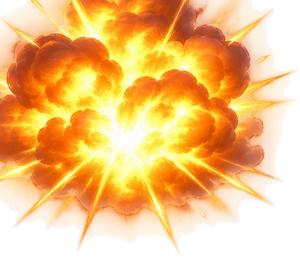
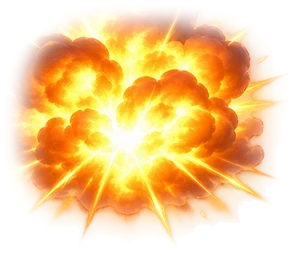
Morning batch: power stats popup, instant market mail for seller and buyer, rounded meteor explosions, chapter-1-only quest migrations, gold-only offline rewards, premium pass for 1200 gems
Claude-Session: https://claude.ai/code/session_01BJxCm1dmmwxxaYfrZHuYsX

diff --git a/public/game.html b/public/game.html
@@ -450,7 +450,7 @@ html,body{height:100%;background:#1c1830;overflow:hidden;font-family:'Jua',syste
   </div>
 </div>
 <script>window.saveReady=!!sessionStorage.xp_enter && sessionStorage.xp_enter===localStorage.xp_token;sessionStorage.removeItem("xp_enter");if(!window.saveReady)location.replace("index.html")</script>
-<script src="net.js?v=27"></script>
+<script src="net.js?v=28"></script>
 <script src="chief-patterns.js?v=3"></script>
 <script src="boss-patterns.js?v=5"></script>
 <script src="weapon-skill-fx.js?v=4"></script>
@@ -511,7 +511,7 @@ async function idbAll(){const db=await idb();return new Promise(res=>{const out=
 async function idbPut(k,v){const db=await idb();return new Promise(res=>{const tx=db.transaction('a','readwrite');tx.objectStore('a').put(v,k);tx.oncomplete=()=>res();tx.onerror=()=>res()})}
 async function idbDel(k){const db=await idb();return new Promise(res=>{const tx=db.transaction('a','readwrite');tx.objectStore('a').delete(k);tx.oncomplete=()=>res();tx.onerror=()=>res()})}
 const BAKED={};
-async function loadAssets(){try{const r=await fetch('assets/manifest.json',{cache:'no-cache'});if(r.ok){const j=await r.json();for(const f of(j.files||[])){const n=f.replace(/\.(png|webp|jpe?g|gif)$/i,'');BAKED[n]='assets/'+f;setAsset(n,'assets/'+f+(n==='bld_fire'?'?v=2041':/^wpn_.*_5$/.test(n)?'?v=2057':/^hero_/.test(n)?'?v=2040':/^(tile|obs)/.test(n)?'?v=2037':''))}}}catch(e){}
+async function loadAssets(){try{const r=await fetch('assets/manifest.json',{cache:'no-cache'});if(r.ok){const j=await r.json();for(const f of(j.files||[])){const n=f.replace(/\.(png|webp|jpe?g|gif)$/i,'');BAKED[n]='assets/'+f;setAsset(n,'assets/'+f+(n==='bld_fire'?'?v=2041':/^wpn_.*_5$/.test(n)?'?v=2057':/^hero_/.test(n)?'?v=2040':/^(tile|obs)/.test(n)?'?v=2037':/^fx_(boom|meteor)$/.test(n)?'?v=2101':''))}}}catch(e){}
  try{for(const[k,v]of await idbAll()){LOCAL[k]=1;setAsset(k,URL.createObjectURL(v))}}catch(e){}}
 const SHAPE={sprout:'머리에 새싹 잎이 난 동글동글한 몸',slime:'말랑한 젤리 슬라임',mush:'버섯 갓을 쓴 작은 몸',spider:'다리 8개 달린 벌레형',golem:'큼직한 돌덩이 골렘',tall:'키 큰 인간형(로브·갑옷)',bat:'날개를 편 박쥐형',chest:'보물상자(때리면 부서짐)',cactus:'선인장'};
 const HERO_LOOK={archer:'초록 후드와 가죽 조끼의 견습 궁수',farmer:'밀짚모자와 멜빵바지의 농부',mage:'파란 뾰족 모자와 로브의 수습 마법사',miner:'노란 안전모와 헤드랜턴, 갈색 작업복의 광부',monk:'주황 승복과 민머리의 수도승',pirate:'삼각 해적모자와 빨간 두건, 안대의 해적',viking:'뿔 달린 투구와 털망토, 갈색 수염의 바이킹',samurai:'빨간 일본 갑옷과 투구의 사무라이',icewitch:'하늘색 마녀 모자와 얼음 결정 장식 로브의 마녀',dragon:'붉은 용비늘 갑옷과 용머리 투구의 용기사',adv:'얼굴 없는 노란 마네킹 같은 기본 캐릭터, 몸 전체가 노란색',knight:'은색 갑옷, 가슴에 파란 천, 빨간 깃털 달린 투구',rogue:'짙은 보라색 후드와 옷, 어두운 얼굴에 빛나는 노란 눈 두 개'};
@@ -1112,7 +1112,8 @@ function load(){try{const d=JSON.parse(localStorage.getItem(KEY));if(d&&typeof d
 function save(){S.seen=Date.now();S.ep=+localStorage.getItem('xp_ep')||0;if(typeof ST!=='undefined'&&ST.pow)S.pow=ST.pow;if(S.chs){const c=S.chs[CHAP]||(S.chs[CHAP]={});for(const k of CHKS)c[k]=S[k]}S.ch=window.CH_GO||CHAP;try{localStorage.setItem(KEY,JSON.stringify(S))}catch(e){}if(window.NET)NET.markSave()}
 const CHKS=['bk','stageClears','stageClaimed','q','qp','qok'];load();{S.chs=S.chs||{};if(!S.chs[1]){S.chs[1]={};for(const k of CHKS)S.chs[1][k]=S[k]}if(!S.chs[CHAP])S.chs[CHAP]={bk:[0,0,0,0,0,0],stageClears:{},stageClaimed:{},q:0,qp:0,qok:0};const c=S.chs[CHAP];for(const k of CHKS)if(c[k]!==undefined)S[k]=c[k];if(CHAP===2&&!ch2Open()){S.ch=1}}
 if(!window.IS_ADMIN)S.admin=false;
-{const now=Date.now(),sec=S.seen?Math.min(8*3600,Math.max(0,(now-S.seen)/1000)):0;if(sec>=300)S.offPend=Math.max(S.offPend||0,sec);S.seen=now}S.wq=S.wq||{};for(const k in S.weapons){const a=S.wq[k]=S.wq[k]||[];while(a.length<S.weapons[k])a.push(Math.round(rnd(.8,1.2)*100)/100);if(a.length>S.weapons[k])a.length=S.weapons[k]}if(!(S.qv>=3)){const ST0=[0, 25, 41, 58, 76, 94];let z=0;for(let i=0;i<6;i++)if(S.bk&&S.bk[i])z=i+1;S.q=ST0[Math.min(z,5)];if(z>=6)S.q=112;S.qp=0;S.qok=0;S.qv=3}if(S.qv===3){const INS=[24,40,57,75,93,111];let d=0;for(const p of INS)if(S.q>=p)d++;S.q+=d;S.qv=4}
+{const now=Date.now(),sec=S.seen?Math.min(8*3600,Math.max(0,(now-S.seen)/1000)):0;if(sec>=300)S.offPend=Math.max(S.offPend||0,sec);S.seen=now}S.wq=S.wq||{};for(const k in S.weapons){const a=S.wq[k]=S.wq[k]||[];while(a.length<S.weapons[k])a.push(Math.round(rnd(.8,1.2)*100)/100);if(a.length>S.weapons[k])a.length=S.weapons[k]}if(!(S.qv>=3)&&CHAP!==1)S.qv=4; // 퀘스트 번호 보정은 1챕 예전 저장에만 1번
+if(!(S.qv>=3)){const ST0=[0, 25, 41, 58, 76, 94];let z=0;for(let i=0;i<6;i++)if(S.bk&&S.bk[i])z=i+1;S.q=ST0[Math.min(z,5)];if(z>=6)S.q=112;S.qp=0;S.qok=0;S.qv=3}if(S.qv===3){const INS=[24,40,57,75,93,111];let d=0;for(const p of INS)if(S.q>=p)d++;S.q+=d;S.qv=4}
 const ST={};
 function wq(k){const a=S.wq&&S.wq[k];return a&&a.length?Math.max(...a):1}
 function addW(k){const collection=collectionState();collection.weapons[k]=(collection.weapons[k]||0)+1;S.weapons[k]=(S.weapons[k]||0)+1;S.wq=S.wq||{};(S.wq[k]=S.wq[k]||[]).push(Math.round(rnd(.8,1.2)*100)/100)}
@@ -2061,7 +2062,7 @@ BOX.mount={n:'탈것 상자',sub:'<b style="color:#ffd23c">전설</b> 탈것 획
 ['일반','희귀','레어','에픽','전설'].forEach((n,g)=>BOX['egg'+g]={n:n+' 펫 알',img:'pet_egg'+g,egg:g});
 function today(){return new Date().toDateString()}
 const SUPT=4*3600e3,ATT=[{gold:1000},{gem:90},{cry:90},{orb:9},{gem:180},{scr:30},{wpn:4}];
-function offRw(sec){const z=topZone(),fg=ZS[z].m.reduce((a,k)=>a+MT[k].gold,0)/ZS[z].m.length,h=sec/3600;return{gold:Math.round(fg*60*h),shard:Math.floor(h)}}
+function offRw(sec){const z=topZone(),fg=ZS[z].m.reduce((a,k)=>a+MT[k].gold,0)/ZS[z].m.length,h=sec/3600;return{gold:Math.round(fg*60*h),shard:0}}
 function showOffline(){if(!S.offPend||document.getElementById('offp'))return;const sec=S.offPend,r=offRw(sec),hh=Math.floor(sec/3600),mm=Math.floor(sec%3600/60);const d=document.createElement('div');d.id='offp';d.style.cssText='position:fixed;inset:0;z-index:9500;background:rgba(15,12,29,.72);display:flex;align-items:center;justify-content:center;font-family:Jua,sans-serif';
  d.innerHTML=`<div style="background:#2b2546;border:4px solid #1c1830;border-radius:22px;padding:22px 20px;width:min(86vw,320px);text-align:center;color:#fff"><div style="font-size:24px;color:#ffe066">오프라인 보상</div><div style="color:#cfc8ee;margin:6px 0 14px">${hh}시간 ${mm}분 동안 모았어요 (최대 8시간)</div><div style="font-size:20px;line-height:1.7">금화 <b style="color:#ffd23c">${fmt(r.gold)}</b>${r.shard?`<br>영웅 파편 <b style="color:#c79bff">${r.shard}개</b>`:''}</div><button id="offok" style="margin-top:16px;font:inherit;font-size:20px;padding:10px 34px;border:3px solid #1c1830;border-radius:14px;background:linear-gradient(#7be36a,#3fae3a);color:#fff">받기</button></div>`;
  document.body.appendChild(d);d.querySelector('#offok').onclick=()=>{const r2=offRw(S.offPend||0);S.gold+=r2.gold;const got={};for(let i=0;i<r2.shard;i++){const pool=HERO.filter(h=>h.k!=='adv'),h=pool[Math.floor(Math.random()*pool.length)];S.shards[h.k]=(S.shards[h.k]||0)+1;got[h.n]=(got[h.n]||0)+1}S.offPend=0;save();d.remove();toast('금화 '+fmt(r2.gold)+(r2.shard?' · 파편 '+Object.entries(got).map(([n,c])=>n+' '+c).join(', '):''))}}
@@ -2255,7 +2256,7 @@ function marketPanel(){
 function mkSell(){const k=MK.sel;if(MK.busy||!k||!(S.weapons[k]-eqCount(k)>0))return;const price=Math.floor(Number(($('mkprice')||{}).value||0));if(!(price>=1)){toast('가격을 입력해 주세요');return}
  const q=Math.min(...S.wq[k]);MK.busy=true;mkApi('sell',{key:k,q,price,cur:MK.cur}).then(j=>{MK.busy=false;if(!j.ok){toast(j.err||'등록 실패');return}remW(k,1);fixSlots();autoFill();calc();save();MK.list.unshift(j.l);MK.sel=null;toast(wName(k)+' 등록 완료');draw()}).catch(()=>{MK.busy=false;toast('서버에 연결할 수 없어요')})}
 function mkBuy(id){const l=MK.list.find(x=>x.id===id);if(MK.busy||!l)return;if(S[l.cur]<l.price){toast((l.cur==='gem'?'보석':'금화')+'이 부족해요');return}
- MK.busy=true;mkApi('buy',{id}).then(j=>{MK.busy=false;MK.list=MK.list.filter(x=>x.id!==id);if(!j.ok){toast(j.err||'구매 실패');draw();return}S[j.cur]=Math.max(0,S[j.cur]-j.price);addWq(j.key,j.q);autoFill();calc();save();toast(wName(j.key)+' 구매 완료!');draw()}).catch(()=>{MK.busy=false;toast('서버에 연결할 수 없어요')})}
+ MK.busy=true;mkApi('buy',{id}).then(j=>{MK.busy=false;MK.list=MK.list.filter(x=>x.id!==id);if(!j.ok){toast(j.err||'구매 실패');draw();return}S[j.cur]=Math.max(0,S[j.cur]-j.price);if(!j.mailed){addWq(j.key,j.q);autoFill();calc()}save();toast(wName(j.key)+(j.mailed?' 구매 완료! 우편함에서 받아요':' 구매 완료!'));draw()}).catch(()=>{MK.busy=false;toast('서버에 연결할 수 없어요')})}
 function mkCancel(id){if(MK.busy)return;MK.busy=true;mkApi('cancel',{id}).then(j=>{MK.busy=false;if(!j.ok){toast(j.err||'실패');return}addWq(j.key,j.q);MK.list=MK.list.filter(x=>x.id!==id);autoFill();calc();save();toast('등록을 내렸어요');draw()}).catch(()=>{MK.busy=false})}
 function cur(list){$('mcur').innerHTML=list.map(k=>`<div class="pill" data-reward-kind="${k}">${IC[k]}<span>${fmt(S[k])}</span></div>`).join('')}
 function upTabs(on){return '<div class="tabs">'+[['base','기본 능력'],['sp','특수 능력']].concat(ch2Open()?[['aw','각성']]:[]).map(([k,n])=>'<div class="tab'+(k===on?' on':'')+'" '+(k===on?'':'data-a="upt:'+k+'"')+'>'+n+'</div>').join('')+'</div>'}
@@ -2315,7 +2316,7 @@ function draw(){queueMicrotask(()=>refreshRewardNotices(true));const B=$('mbody'
   F.innerHTML=upTabs('base')}}
  else if(panel==='wpn'){$('mtitle').textContent='장비';cur(['scr','gold']);const n=slotCount();
   const pos=[[10,34],[null,34],[10,112],[null,112],[10,190],[null,190]];
-  let top=`<div class="eqtop"><canvas id="eqcv"></canvas><div class="eqpow ts">⚡ ${fmt(ST.pow)}</div>`;
+  let top=`<div class="eqtop"><canvas id="eqcv"></canvas><button type="button" class="eqpow ts" data-a="powinfo" style="cursor:pointer;font:inherit">⚡ ${fmt(ST.pow)} <span style="font-size:.7em;opacity:.8">ⓘ</span></button>`;
   S.slots.forEach((k,i)=>{const[l,t]=pos[i],side=l===null?'right:10px':'left:10px';
    if(i>=n){top+=`<div class="eqs lk" style="${side};top:${t}px" data-a="slk:${i}">🔒<br>Lv${SLOT_LV[i]}</div>`;return}
    const g=k?+k.split('_')[1]:0,canUp=k&&effLv(i)<capLv(i)&&afford(slotCost(S.slv[i]));
@@ -2512,12 +2513,13 @@ qlv();loadAssets();requestAnimationFrame(frame);
 <script src="raid.js?v=13"></script>
 <script src="pet.js?v=11"></script>
 <script src="mount.js?v=27"></script>
-<script src="unlock.js?v=3"></script>
+<script src="unlock.js?v=4"></script>
 <script src="shop2.js?v=5"></script>
 <script src="events.js?v=1"></script>
 <script src="talent.js?v=4"></script>
-<script src="pass.js?v=8"></script>
-<script src="mailbox.js?v=3"></script>
+<script src="pass.js?v=9"></script>
+<script src="statinfo.js?v=1"></script>
+<script src="mailbox.js?v=4"></script>
 <script src="sfx.js?v=6"></script>
 </body>
 </html>

diff --git a/public/pass.js b/public/pass.js
@@ -1,6 +1,6 @@
 /* 성장 패스 (시즌 1): 5레벨마다 일반 보상 + 프리미엄 보상. 프리미엄은 운영자가 켜 줌(₩1,200) */
 (() => {
-  const SEASON = 's1', START = Date.parse('2026-11-19T19:00:00+09:00'), END = START + 30 * 864e5, PRICE = '₩1,200';
+  const SEASON = 's1', START = Date.parse('2026-11-19T19:00:00+09:00'), END = START + 30 * 864e5, PRICE = 1200;
   const TIERS = [];
   for (let t = 1; t <= 20; t++) {
     const lv = t * 5, G = Math.round(800 * t * t / 100) * 100;
@@ -58,6 +58,7 @@
 .pass-prem{display:flex;align-items:center;justify-content:center;gap:6px;flex-wrap:wrap;font-size:13px}
 .pass-prem button,.pass-all{font:inherit;color:#fff;border:0;background-color:transparent;background-position:center;background-size:100% 100%;background-repeat:no-repeat;text-shadow:0 2px 3px #160924}
 .pass-prem button{background-image:url(assets/pass_premium.webp);padding:9px 18px;min-height:36px}
+.pass-prem button{display:inline-flex;align-items:center;gap:4px}.pass-prem button img,.pass-prem button svg,.pass-prem button .aimg{width:20px;height:20px}
 .pass-all{display:block;margin:0 auto 10px;width:min(210px,84%);min-height:48px;background-image:url(assets/pass_claim.webp);font-size:17px}
 .pass-all:disabled{filter:saturate(.45) brightness(.78)}
 .pass-hd,.pass-row{display:grid;grid-template-columns:minmax(0,1fr) 44px minmax(0,1fr);gap:6px;align-items:center;text-align:center}
@@ -88,7 +89,7 @@
   function panelHTML() {
     const ready = anyReady();
     let h = `<section class="pass-board" aria-label="성장 패스"><header class="pass-top"><img class="pass-emblem" src="assets/pass_emblem.webp" alt=""><h3 class="ts">성장 패스 · 시즌 1</h3><div class="tm">${left()}</div>
-      <div class="pass-prem">${PREM ? '<b style="color:#7be36a">✔ 프리미엄 패스 활성화</b>' : `<span>프리미엄 보상까지 모두 받기</span><button class="ts" data-a="passbuy">${PRICE}</button>`}</div></header>
+      <div class="pass-prem">${PREM ? '<b style="color:#7be36a">✔ 프리미엄 패스 활성화</b>' : `<span>프리미엄 보상까지 모두 받기</span><button class="ts" data-a="passbuy">${IC.gem}${fmt(PRICE)}</button>`}</div></header>
       <button class="pass-all ts" data-a="passall" ${ready ? '' : 'disabled'}>모두 받기</button>
       <div class="pass-hd"><span>일반 보상</span><span>Lv</span><span>프리미엄 ${PREM ? '' : '🔒'}</span></div>`;
     for (const t of TIERS) {
@@ -114,13 +115,14 @@
     if (k === 'passc') {
       const t = TIERS.find(x => x.lv === +v); if (!t) return;
       const prem = w === 'p';
-      if (prem && !PREM) { toast('프리미엄 패스(' + PRICE + ')가 필요해요'); return }
+      if (prem && !PREM) { toast('프리미엄 패스(보석 ' + fmt(PRICE) + ')가 필요해요'); return }
       if (!live()) { toast(Date.now() < START ? '시즌은 19시에 시작해요' : '시즌이 끝났어요'); return }
       if (S.lv < t.lv) { toast('Lv.' + t.lv + '에 받을 수 있어요'); return }
       const m = claim(t, prem); if (m) { toast(m); save(); window.SFX && SFX.play('reward', { v: .6 }) } draw(); return;
     }
     if (k === 'passall') { const got = []; for (const t of TIERS) for (const pr of [false, true]) { const m = claim(t, pr); if (m) got.push(m) } if (got.length) { toast('패스 보상 ' + got.length + '개 받음!'); save(); window.SFX && SFX.play('reward', { v: .7 }) } draw(); return }
-    if (k === 'passbuy') { toast('링구에게 기부좀요'); num(P.x, P.y - 120, '링구에게 기부좀요', '#ffe066', true); return }
+    if (k === 'passbuy') { if (PREM) return; if (S.gem < PRICE) { toast('보석이 부족해요 (' + fmt(PRICE) + ' 필요)'); return } if (window.__passBuying) return; window.__passBuying = 1;
+      fetchPrem({ a: 'buy' }).then(() => { window.__passBuying = 0; if (PREM) { S.gem -= PRICE; save(); window.NET && NET.markSave && NET.markSave(); toast('프리미엄 패스 활성화!'); window.SFX && SFX.play('reward', { v: .8 }); draw() } else toast('잠시 후 다시 시도해 주세요') }); return }
     if (k === 'passgrant') { const n = (document.getElementById('passNick') || {}).value || ''; if (!n.trim()) { toast('닉네임을 적어 주세요'); return } fetchPrem({ a: 'grant', nick: n, on: v === '1' }).then(() => toast('처리했어요')); return }
     return _act.apply(this, arguments);
   };

diff --git a/server.js b/server.js
@@ -45,10 +45,12 @@ const MK_LIMIT = { gold: 1e15, gem: 1e6 }, MK_FEE = .1, MK_MAX = 10;
 // 운영 우편: 정식 오픈(19:00) 이후 모든 계정(새로 가입한 계정 포함)이 우편함에서 1번 받음
 const SYS_MAIL = [{ id: 'launch-1', t: '🎉 정식 오픈 보상', gem: 500, keys: { b2: 3, pet: 2 } }];
 function sysMail(u) { if (Date.now() < LAUNCH_AT) return []; const g = u.gifts || {}; return SYS_MAIL.filter(m => !g[m.id]).map(m => ({ ...m })); }
+// 우편이 생기면 접속 중인 그 유저 폰에 바로 알려서 새로고침 없이 우편함 갱신
+function mailPing(id) { const c = clients.get(id); if (c) wsSend(c.sock, { t: 'mail' }); }
 function market(u, b, res) {
   const mail = mk.mail[u.id] || [];
   if (b.a === 'list') return send(res, 200, { list: mk.list.slice(-300).reverse(), mail: mail.length, me: u.id });
-  if (b.a === 'inbox') return send(res, 200, { mail: sysMail(u).concat(mail.map(({ gold, gem }) => ({ gold, gem })).reverse()) });
+  if (b.a === 'inbox') return send(res, 200, { mail: sysMail(u).concat(mail.map(({ gold, gem, w, t }) => ({ gold, gem, w, t })).reverse()) });
   if (b.a === 'sell') {
     const key = String(b.key || ''), q = Math.round(Number(b.q) * 100) / 100, price = Math.floor(Number(b.price)), cur = b.cur === 'gem' ? 'gem' : 'gold';
     if (!/^(dagger|sword|mace|spear|axe|bow|gun|staff)_[0-6]$/.test(key) || !(q >= .8 && q <= 1.2)) return send(res, 400, { err: '잘못된 무기예요' });
@@ -64,8 +66,10 @@ function market(u, b, res) {
     if (b.a === 'cancel') { if (l.seller !== u.id) return send(res, 403, { err: '내 물건만 내릴 수 있어요' }); mk.list.splice(i, 1); saveMk(); return send(res, 200, { ok: 1, key: l.key, q: l.q }); }
     if (l.seller === u.id) return send(res, 400, { err: '내 물건은 살 수 없어요' });
     mk.list.splice(i, 1);
-    (mk.mail[l.seller] = mk.mail[l.seller] || []).push({ [l.cur]: Math.floor(l.price * (1 - MK_FEE)), key: l.key, buyer: u.nick || '모험가' });
-    saveMk(); return send(res, 200, { ok: 1, key: l.key, q: l.q, price: l.price, cur: l.cur });
+    (mk.mail[l.seller] = mk.mail[l.seller] || []).push({ [l.cur]: Math.floor(l.price * (1 - MK_FEE)), key: l.key, buyer: u.nick || '모험가', t: '거래소 판매 대금' });
+    (mk.mail[u.id] = mk.mail[u.id] || []).push({ w: { key: l.key, q: l.q }, t: '거래소 구매 장비' }); // 산 장비는 구매자 우편함으로
+    saveMk(); mailPing(l.seller); mailPing(u.id);
+    return send(res, 200, { ok: 1, key: l.key, q: l.q, price: l.price, cur: l.cur, mailed: 1 });
   }
   if (b.a === 'claim') {
     const sm = sysMail(u); if (sm.length) { u.gifts = u.gifts || {}; for (const m of sm) u.gifts[m.id] = Date.now(); markDirty(); }
@@ -139,6 +143,7 @@ const server = http.createServer(async (req, res) => {
         if (!t) return send(res, 400, { err: '그 닉네임을 찾을 수 없어요' });
         t.passPrem = t.passPrem || {}; if (b.on) t.passPrem[S1] = Date.now(); else delete t.passPrem[S1]; markDirty();
       }
+      if (b.a === 'buy') { u.passPrem = u.passPrem || {}; if (!u.passPrem[S1]) { u.passPrem[S1] = Date.now(); markDirty(); } } // 보석 1,200은 게임에서 차감
       const out = { prem: !!(u.passPrem && u.passPrem[S1]) };
       if (u.id === 'ehgus') out.list = Object.values(db.users).filter(x => x.passPrem && x.passPrem[S1]).map(x => x.nick || x.id);
       return send(res, 200, out);

diff --git a/public/statinfo.js b/public/statinfo.js
@@ -1,0 +1,44 @@
+/* 장비 화면 ⚡ 전투력 버튼 → 내 능력치 상세 창 */
+(() => {
+  const css = document.createElement('style');
+  css.textContent = `#statpop{position:fixed;inset:0;z-index:9000;display:flex;align-items:center;justify-content:center;background:rgba(15,12,29,.55);font-family:Jua,sans-serif}
+#statpop .sp{width:min(84vw,330px);max-height:78vh;overflow:auto;background:#2b2546;border:4px solid #1c1830;border-radius:18px;padding:12px 14px 14px;color:#fff;box-shadow:0 8px 0 rgba(0,0,0,.35)}
+#statpop .sph{display:flex;align-items:center;justify-content:space-between;margin-bottom:8px}
+#statpop .sph b{font-size:20px;font-weight:normal;color:#ffe066}
+#statpop .spx{font:inherit;font-size:18px;width:32px;height:32px;border-radius:10px;border:2px solid #1c1830;background:#e8504a;color:#fff;padding:0}
+#statpop .spp{text-align:center;font-size:24px;margin:2px 0 10px;color:#ffd23c}
+#statpop .spr{display:flex;align-items:center;gap:8px;padding:6px 8px;border-radius:10px;background:#38324f;margin-bottom:5px;font-size:15px}
+#statpop .spr .i{flex:0 0 24px;height:24px}#statpop .spr .i>img,#statpop .spr .i>svg{width:100%;height:100%;object-fit:contain}
+#statpop .spr span{flex:1;color:#cfc8ee}#statpop .spr em{font-style:normal;color:#fff}
+#statpop .sps{font-size:13px;color:#9d93ff;margin:10px 2px 4px}`;
+  document.head.appendChild(css);
+  const pct = v => (Math.round(v * 1000) / 10) + '%';
+  function rows() {
+    const R = [
+      ['sword', '공격력', fmt(ST.atk)],
+      ['hp', '최대 체력', fmt(ST.maxhp)],
+      ['crit', '치명타 확률', pct(Math.min(1, ST.crit || 0))],
+      ['crit', '치명타 피해', pct(ST.critDamage || 1.5)],
+      ['flag', '스킬 피해', pct(ST.skill || 1)],
+      ['flag', '스킬 쿨타임 감소', pct(Math.max(0, 1 - (ST.skillCooldown == null ? 1 : ST.skillCooldown)))],
+      ['up', '공격 속도', pct(ST.aspd || 1)],
+      ['up', '이중 공격 확률', pct(Math.min(1, ST.dbl || 0))],
+      ['up', '삼중 공격 확률', pct(Math.min(1, ST.triple || 0))],
+      ['regen', '체력 회복', fmt(Math.round((ST.regen || 0) * 10) / 10) + '/초'],
+      ['hp', '생명력 흡수', pct(ST.ls || 0)],
+      ['spd', '이동 속도', Math.round(ST.spd || 0)],
+      ['bag', '가방 용량', fmt(ST.bag || 0)],
+    ];
+    return R.map(([ic, n, v]) => `<div class="spr"><span class="i">${IC[ic] || ''}</span><span>${n}</span><em>${v}</em></div>`).join('');
+  }
+  function show() {
+    let d = document.getElementById('statpop'); if (d) d.remove();
+    d = document.createElement('div'); d.id = 'statpop';
+    d.innerHTML = `<div class="sp"><div class="sph"><b>내 능력치</b><button class="spx" aria-label="닫기">✕</button></div>
+      <div class="spp">⚡ ${fmt(ST.pow)}</div>${rows()}<div class="sps">강화·장비·영웅·펫·탈것·특성이 모두 합쳐진 값이에요</div></div>`;
+    d.addEventListener('click', e => { if (e.target === d || e.target.closest('.spx')) d.remove() });
+    document.body.appendChild(d);
+  }
+  const _act = act;
+  act = function (a) { if (a === 'powinfo') { show(); return } return _act.apply(this, arguments) };
+})();

diff --git a/public/mailbox.js b/public/mailbox.js
@@ -23,7 +23,7 @@
   const openPanel = () => panel === 'mailbox';
   const refreshPanel = () => { if (openPanel()) draw(); };
   const KN = { b1: '초보자의 무기상자 열쇠', b2: '전문가의 무기상자 열쇠', b3: '전사의 무기상자 열쇠', pet: '펫 알 상자 교환권', mount: '탈것 상자 교환권' };
-  const amount = m => ['gold', 'gem'].filter(k => m[k] > 0).map(k => `${RWN[k]} ${number.format(m[k])}`).concat(Object.entries(m.keys || {}).map(([k, n]) => `${KN[k] || k} ${n}개`)).join(' · ');
+  const amount = m => ['gold', 'gem'].filter(k => m[k] > 0).map(k => `${RWN[k]} ${number.format(m[k])}`).concat(Object.entries(m.keys || {}).map(([k, n]) => `${KN[k] || k} ${n}개`)).concat(m.w ? [wName(m.w.key) + ' (' + Math.round(m.w.q * 100) + '%)'] : []).join(' · ');
 
   async function refresh() {
     if (loading || claiming) return;
@@ -51,9 +51,11 @@
       const rewards = {}, gotKeys = [];
       for (const m of result.mail) {
         for (const k of ['gold', 'gem']) if (m[k] > 0) rewards[k] = (rewards[k] || 0) + m[k];
+        if (m.w && /^[a-z]+_[0-6]$/.test(m.w.key)) { addWq(m.w.key, m.w.q); gotKeys.push(wName(m.w.key)); }
         for (const [k, n] of Object.entries(m.keys || {})) { if (!KN[k] || !(n > 0)) continue; S.keys = S.keys || {}; S.keys[k] = (S.keys[k] || 0) + n; gotKeys.push(KN[k] + ' ' + n + '개') }
       }
       mail = [];
+      if (result.mail.some(m => m.w)) { autoFill(); calc(); }
       if (Object.keys(rewards).length || gotKeys.length) { toast([Object.keys(rewards).length ? give(rewards) : ''].concat(gotKeys).filter(Boolean).join(', ')); save(); }
     } catch {
       toast('우편을 받지 못했어요. 다시 확인해 주세요.');
@@ -108,4 +110,5 @@
   setInterval(orderButton, 500);
   setTimeout(refresh, 4000);
   setInterval(refresh, 30000);
+  window.addEventListener('xp-mail', () => { refresh(); toast('📬 우편이 도착했어요') });
 })();

diff --git a/public/net.js b/public/net.js
@@ -23,7 +23,7 @@ function connect(){if(kicked)return;
    if(typeof S!=='undefined'){save();saveNow(m.key);}
    return;
   }
-  if(m.t==='kick')return kick(m.msg);if(m.t==='reset')return resetGo();
+  if(m.t==='kick')return kick(m.msg);if(m.t==='reset')return resetGo();if(m.t==='mail'){window.dispatchEvent(new Event('xp-mail'));return}
   if(['defenseState','defenseError','defenseInfo','defenseRooms'].includes(m.t)){window.DEFENSE?.receive(m);return}
   if(['raidState','raidError','raidInfo','raidRooms'].includes(m.t)){window.RAID?.receive(m);return}
   if(m.t==='hi'){ME=m.id;others.clear();for(const o of m.all)upd(o);

diff --git a/public/unlock.js b/public/unlock.js
@@ -52,7 +52,7 @@
         { t: '금화 150개로 부화기 짓기', type: 'build', key: 'incubator', cost: 150, rw: { gem: 10 } },
         { t: '부화기에 알 넣기', type: 'incput', need: 1, rw: { gold: 80 } },
         { t: '펫 부화하기', type: 'hatch', need: 1, rw: { gem: 15 } });
-      if (!S.qv2) { S.qv2 = 1; if (S.q > i) S.q += 3; save() }
+      if (!S.qv2) { S.qv2 = 1; if (CHAP === 1 && S.q > i) S.q += 3; save() }
     }
   }
   window.UNLOCK.built = () => { // 부화기 완성 시

diff --git a/HANDOFF.md b/HANDOFF.md
@@ -128,3 +128,4 @@ XP Hero(Supercent) 방식의 2D 웹 게임. 친구 8명 멀티플레이용.
 - 성장 패스(pass.js): 시즌1 2026-11-19 19:00 KST부터 30일. 5레벨마다(5~100, 20단계) 일반/프리미엄 보상, S.pass{s,f,p}. 프리미엄(₩1,200)은 결제 없음 → 관리자(ehgus)가 패스 창 아래 관리자 칸에서 닉네임으로 켜기/끄기 (/api/pass, u.passPrem, 초기화 때도 유지). 버튼은 탈것 버튼 아래 #passBtn, 이미지 키 hud_pass.
 - 정식 오픈 우편(server.js SYS_MAIL launch-1): 19:00 이후 모든 계정(신규 가입 포함) 우편함에 1번 — 보석 500, 전문가 열쇠 3, 펫 알 상자 교환권(keys.pet) 2. 받으면 u.gifts['launch-1']. 새 운영 우편은 SYS_MAIL에 id만 새로 추가.
 - 저장 방식(링피지와 같게, 2026-11-20): 서버 기록이 정답. u.rev(저장 버전) — 기기는 들어올 때 받은 rev를 들고 저장, 서버 rev와 다르면 409 conflict → 기기는 "다른 곳에서 진행한 기록" 안내 후 서버 기록 다시 불러옴. 저장 요청은 한 번에 하나(inflight). 들어올 때 항상 서버 기록 사용(다른 계정 캐시 제거). 레벨이 서버보다 낮은 저장은 거절. 같은 브라우저 게임 탭 하나만(BroadcastChannel). 진행도 다 찬 임무 자동 완료.
+- 2026-11-20 아침: 장비 화면 ⚡전투력 버튼 → 능력치 상세 창(statinfo.js). 거래소 구매 장비는 구매자 우편함으로(w:{key,q}), 판매 대금·구매 장비 모두 서버가 웹소켓 {t:'mail'}로 즉시 알림 → 우편함 갱신·! 표시. fx_boom/fx_meteor 가장자리 페더링(네모 잘림 제거). 퀘스트 번호 보정(qv/qv2)은 1챕에서만. 오프라인 보상 영웅 파편 제거(금화만). 프리미엄 패스 보석 1,200 구매(/api/pass a:'buy').
